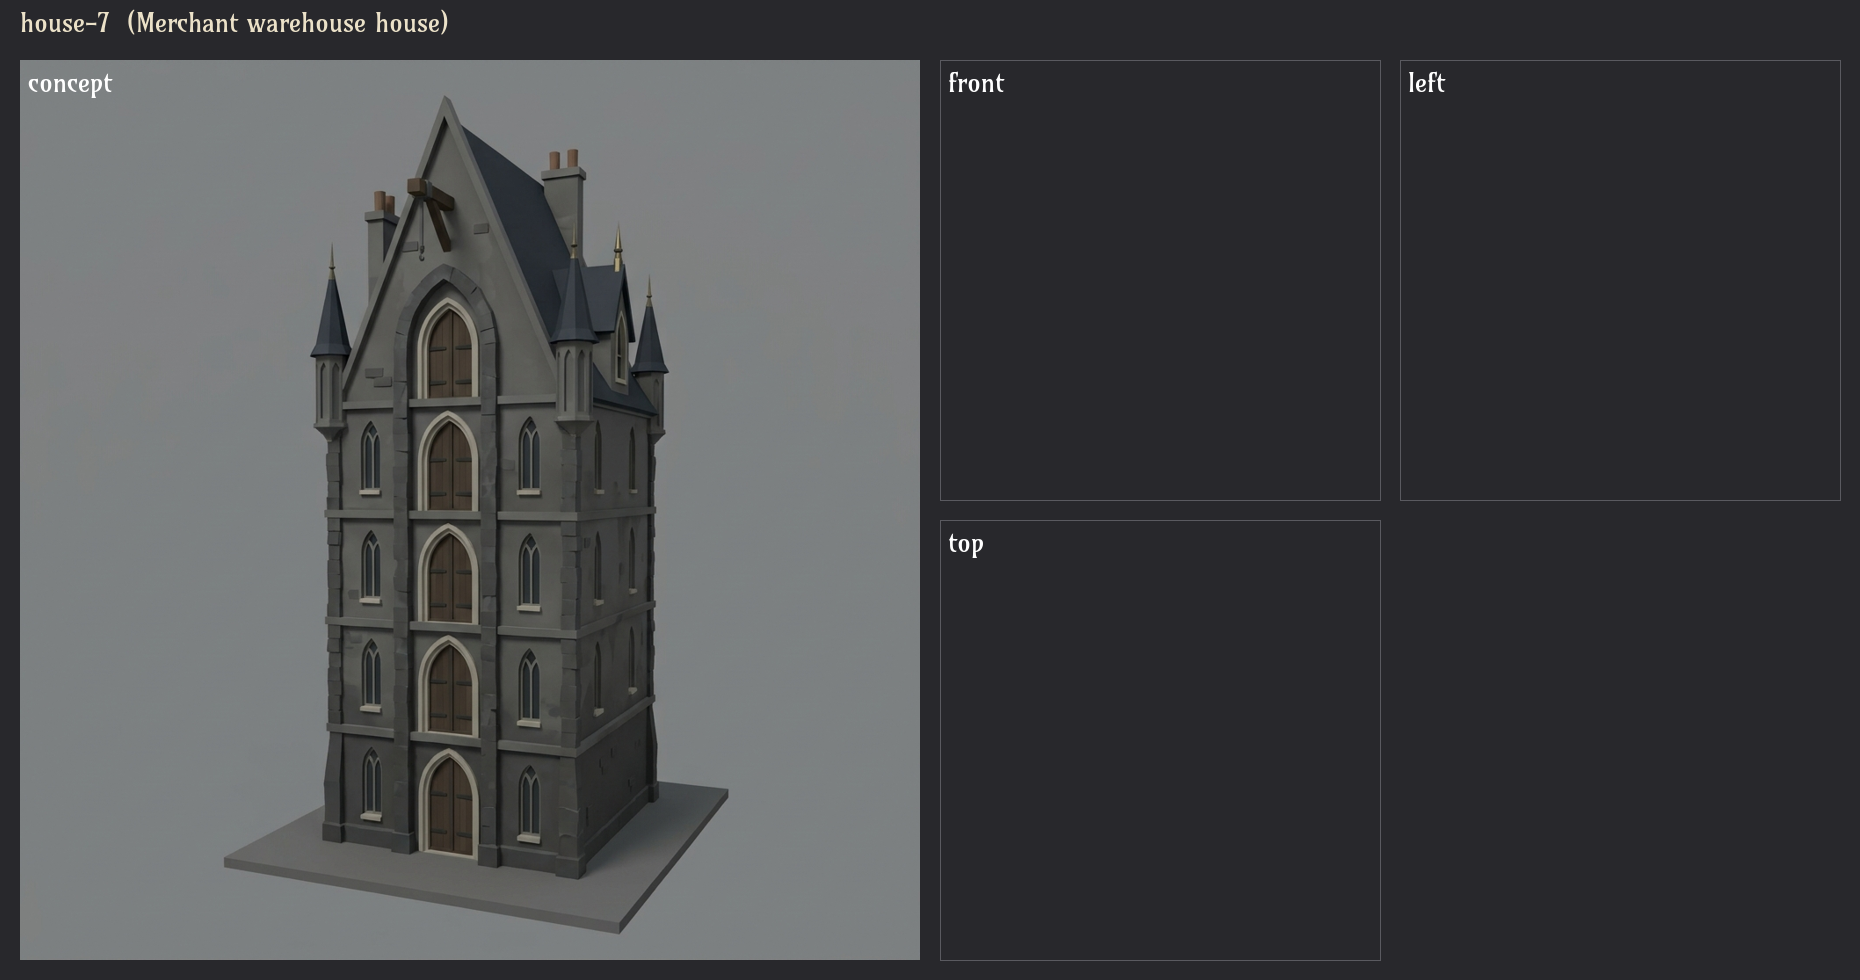
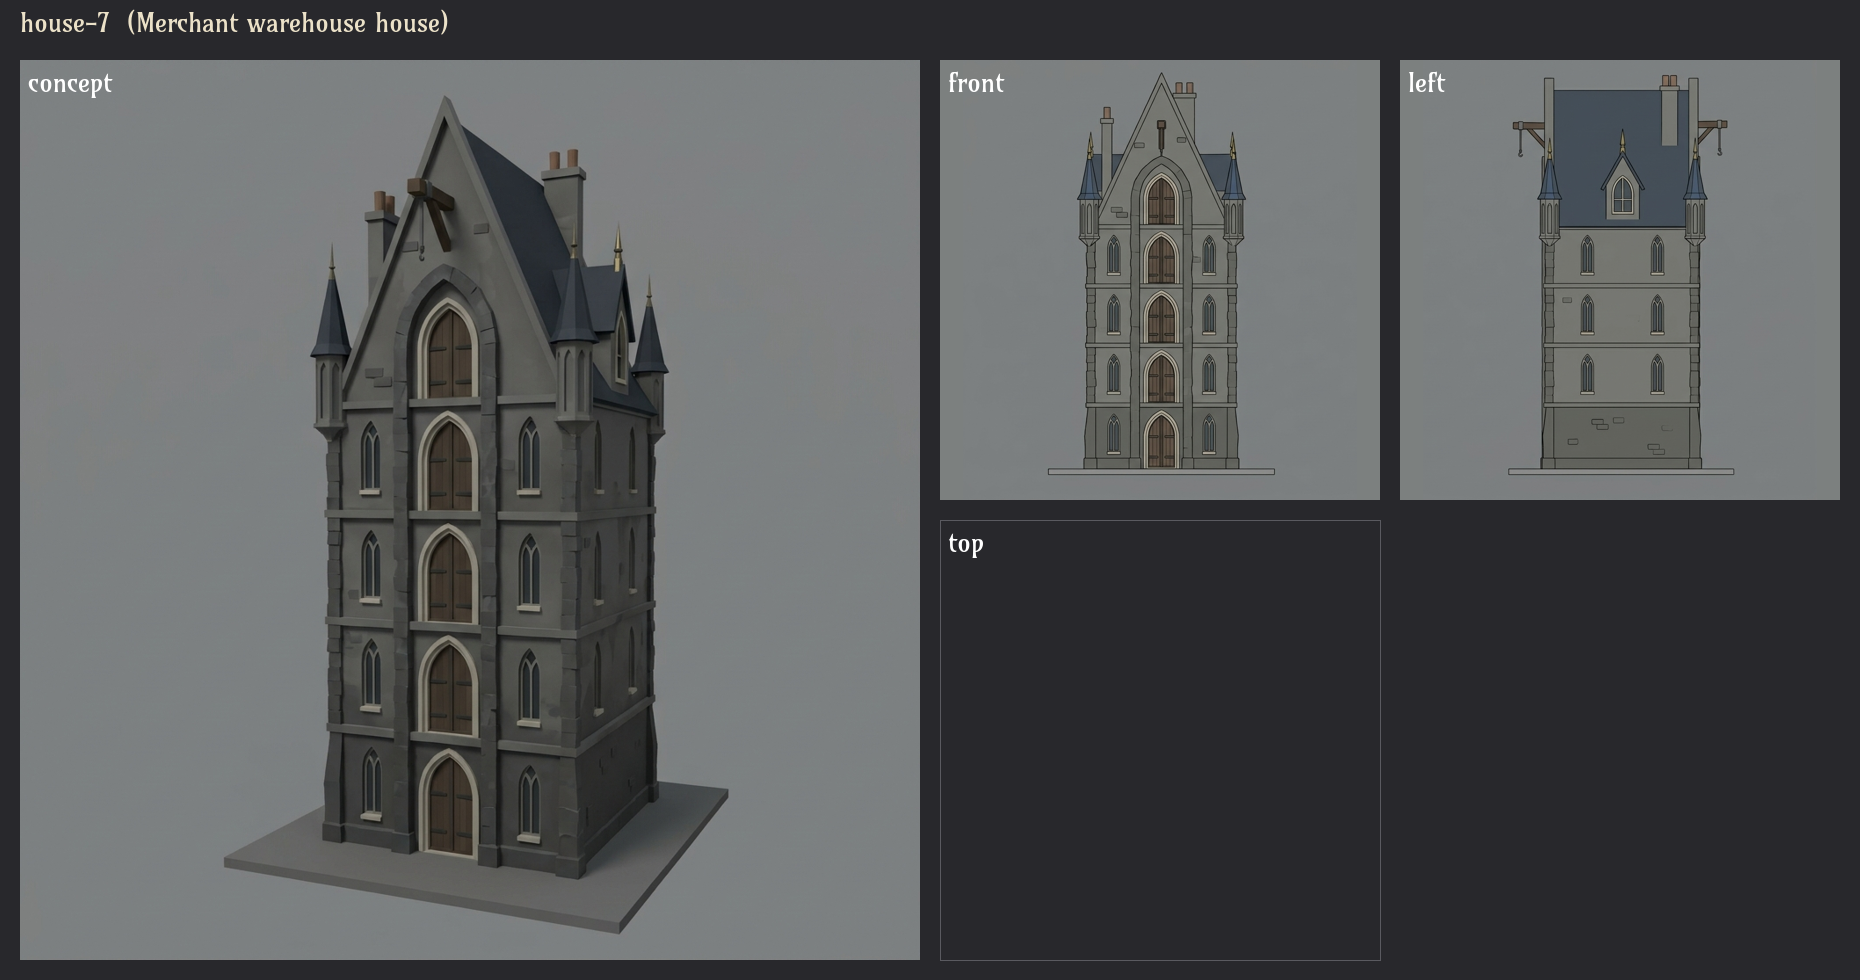
Front and left views for all 20 buildings, turnaround fallback (D172)

Changed region(s): [[0.4989, 0.0612, 0.9978, 0.5204]]

diff --git a/art-pipeline/run.py b/art-pipeline/run.py
@@ -5,6 +5,7 @@ the 3D models himself from them.
   python3 art-pipeline/run.py all                   concept image of every building in buildings.json
   python3 art-pipeline/run.py cemetery              one building's concept
   python3 art-pipeline/run.py all --step views      front, left and top views (only after the concepts are approved)
+  python3 art-pipeline/run.py all --step turnaround   front and left cut from one side-by-side sheet, where views failed
   python3 art-pipeline/run.py all --step sheet      one sheet per building, and out/concepts.png with every concept
   add --force to regenerate files that exist (with --step views: --view top to redo a single view)
 
@@ -20,7 +21,7 @@ ROOT = HERE.parent
 OUT = HERE / 'out'
 LOG = HERE / 'log.txt'
 VIEWS = ['front', 'left', 'top']
-STEPS = ['concept', 'views', 'sheet']
+STEPS = ['concept', 'views', 'turnaround', 'sheet']
 COPY_LIMIT = 12.5   # a view whose outlines are this close to the concept kept its three-quarter camera
 TRIES = 3
 FONT = ROOT / 'godot' / 'assets' / 'fonts' / 'Amarante-Regular.ttf'
@@ -125,6 +126,45 @@ def step_views(b, d, force, only=None):
     return ok
 
 
+TURNAROUND = ('Using the attached concept as the exact reference, draw a model turnaround sheet of the same building, unchanged in '
+              'shape, proportions, colours and details, in two panels side by side on one plain flat mid-grey background. Left '
+              'panel: the front elevation, camera on the ground facing the front (the side with the main entrance) square-on. '
+              'Right panel: the left side elevation, camera on the ground facing the left side square-on, so the front is at '
+              'the right edge of that panel. Both orthographic with no perspective, no top surfaces visible, roofs only as '
+              'outlines, both at the same scale on the same ground line, each panel showing everything that stands on the base. '
+              'Rendered exactly like the concept in full colour, same low-poly flat shaded look, soft even lighting, no cast '
+              'shadows. No text, no labels, no divider line.')
+
+
+def step_turnaround(b, d, force, only=None):
+    """Fallback when single views keep the concept's camera: one 16:9 sheet with both elevations, cut in two."""
+    need = [v for v in ('front', 'left') if force or not (d / f'{v}.png').exists() or copied(d, v)]
+    if not need:
+        print('  front and left are fine, skip')
+        return True
+    t0 = time.time()
+    try:
+        img = gen_gemini.call(TURNAROUND + ' Do not include: ' + DATA['negative'] + ', perspective, three-quarter view.',
+                              [d / 'concept.png'], key(), style_prefix=False, aspect='16:9')
+    except Exception as e:  # noqa: BLE001
+        log(b['id'], 'turnaround', f'FAILED (model {gen_gemini.MODEL}): {str(e)[:160]}')
+        return False
+    (d / 'turnaround.png').write_bytes(img)
+    sheet = Image.open(d / 'turnaround.png').convert('RGB')
+    w, h = sheet.size
+    bg = sheet.getpixel((4, 4))
+    for i, v in enumerate(('front', 'left')):
+        if v not in need:
+            continue
+        half = sheet.crop((i * w // 2, 0, (i + 1) * w // 2, h))
+        side = max(half.size)
+        sq = Image.new('RGB', (side, side), bg)
+        sq.paste(half, ((side - half.width) // 2, (side - half.height) // 2))
+        sq.save(d / f'{v}.png')
+        log(b['id'], 'turnaround', f'ok {v}.png from turnaround.png ({time.time() - t0:.0f} s, outline difference {difference(d / "concept.png", d / f"{v}.png"):.1f})')
+    return True
+
+
 def step_sheet(b, d, force, only=None):
     files = [d / 'concept.png'] + [d / f'{v}.png' for v in VIEWS]
     if not files[0].exists():
@@ -180,7 +220,7 @@ def main():
     if a.target != 'all' and a.target not in ids:
         sys.exit(f'unknown id {a.target}; known: {", ".join(ids)}')
     todo = DATA['buildings'] if a.target == 'all' else [b for b in DATA['buildings'] if b['id'] == a.target]
-    fn = {'concept': step_concept, 'views': step_views, 'sheet': step_sheet}[a.step]
+    fn = {'concept': step_concept, 'views': step_views, 'turnaround': step_turnaround, 'sheet': step_sheet}[a.step]
     for b in todo:
         d = OUT / b['id']
         d.mkdir(parents=True, exist_ok=True)

diff --git a/docs/DECISIONS.md b/docs/DECISIONS.md
@@ -566,5 +566,6 @@ Three candidates came from Nano Banana (`gemini-3.1-flash-image`) for a seamless
 - Round 2 and 3 (Bruno: "redo the descriptions. Remember it's everything gothic." "I want something darker and more gothic."): every subject rewritten as Gothic (pointed arches, lancet windows, spires, pinnacles), and the shared style made dark and grim (soot-blackened stone, near-black slate, gargoyles, iron cresting, a dark charcoal background, a mostly dark palette). Earlier rounds stay as `concept-v1.png`, `concept-v2.png` and `out/concepts-v1.png`, `concepts-v2.png`.
 - Bruno picked round 2 for every building ("I liked the concept 2 better for all of them"): `concept.png` is round 2 again, round 3 is kept as `concept-v3.png`, and the prompts are back to the round 2 wording.
 - Views: Nano Banana tends to keep the concept's three-quarter camera. `run.py` compares the outlines of each view with the concept and retries a copy up to three times with a stricter instruction (camera on the ground, square to one face, keep everything on the base). Asking for a "technical drawing" gave pale line art, so the views now ask for the concept's full colour rendering. Views judged wrong by eye are kept in `out/<id>/rejected/`. Good so far: graveyard, Saint-Roch and First Player (all three), morgue (front, top), slaughterhouse (left, top), market, academy, alley and house-8 (top). The rest stopped when the Gemini prepaid credits ran out (HTTP 402).
+- Front and left for all 20 (Bruno: "do it. we're missing sides." "Just the left and front are enough."): single views kept the concept's camera for 15 buildings even after three tries, so `run.py --step turnaround` asks for one 16:9 sheet with the front elevation on the left and the left elevation on the right, cut into `front.png` and `left.png` (the sheet stays as `turnaround.png`). That worked for every one; those views are flatter and more illustrated than the concept. From single views: graveyard, Saint-Roch, First Player, morgue, market, and the left of the square, slaughterhouse, Odeon and house-5.
 - `ground.py` draws `out/ground.png` and `out/ground.json` from `town.gd`'s river, bridges, roads and landmark spots: every landmark as a rectangle at its game size with its front marked, and about 2,200 house lots numbered by kind, in metres, in blocks with 30 m streets and 16 m lanes (halved from 4,200: "make it a little less busy. Reduce houses by 50%").
 - No 3D or Blender step and no Godot change: Bruno makes the models. Nano Banana 2 is the Gemini REST API through `tools/gen_gemini.py` (`gemini-3.1-flash-image`), which now takes a list of reference images and a seed; there is no negative-prompt field, so it is appended as "Do not include: ...".

diff --git a/CLAUDE.md b/CLAUDE.md
@@ -52,7 +52,7 @@ tools/gdcheck.sh res://town/town.gd   # parse-check a script without hanging
 - `town/town.gd`: Paris 1819 from the original board (D171), seed 1819, metres, +z south. Positions are board percent converted by `P()` (12 m per percent). `WATER` polygons (scanline-filled into the occupancy grid: 1 street, 2 built, 3 water, 4 kept open, 5 boat), `BRIDGES`, `ROADS`, `PLACES` (name, colour, position, facing), `QUARTERS` (palette by nearest quarter). Streets stop at water (`street()`); quarters are a warped grid with their own lane angle (`_build_districts()`); houses line every street (`gothic_house()`). A model at `godot/assets/models/<place id>.glb` replaces that landmark.
 - `town/town_main.gd`: the board's night (blue-grey sky, moon, fog, SSR), rain particles behind `RAIN` (off), camera (FOV 24, pitch -38), landmark names, shot mode (`-- --shot`, add `--nofog`). `town/ink.gdshader`: pen lines, currently unused.
 - Textures in `art/town/` (512px webp, mipmaps on in their `.import`), prompts in `docs/prompts/all-images.md` (Town).
-- **Reference images** (D172, `art-pipeline/`, images only, Bruno makes the 3D): `python3 art-pipeline/run.py all` (concepts and `out/concepts.png`), `--step views` (front, left, top, only after Bruno approves the concepts), `--step sheet`, `--force` to redo. Run with `GEMINI_API_KEY` in the environment (`zsh -c 'source ~/.zshrc; ...'`). `python3 art-pipeline/ground.py` draws the town ground plan with every building lot (`out/ground.png`, `out/ground.json`).
+- **Reference images** (D172, `art-pipeline/`, images only, Bruno makes the 3D): `python3 art-pipeline/run.py all` (concepts and `out/concepts.png`), `--step views` (front, left, top, only after Bruno approves the concepts), `--step turnaround` (front and left cut from one side-by-side sheet, for buildings whose single views keep the concept's angle), `--step sheet`, `--force` to redo. Run with `GEMINI_API_KEY` in the environment (`zsh -c 'source ~/.zshrc; ...'`). `python3 art-pipeline/ground.py` draws the town ground plan with every building lot (`out/ground.png`, `out/ground.json`).
 - `scripts/rules/game.gd`: the rules (port of `src/engine.js`), no drawing. Keep it in step with `engine.js` while both exist.
 - GDScript traps: lambdas capture locals by value; `:=` can't infer types from Dictionary or Array values or untyped loop variables (type them: `for s: float in [...]`); don't name a method `free`; new `class_name`s need `godot --headless --path godot --import` before a parse check; in shot mode wait on `process_frame`, not `frame_post_draw`.
 - Same conventions as the web page: no em dashes, no italics, minimum 11px type.
